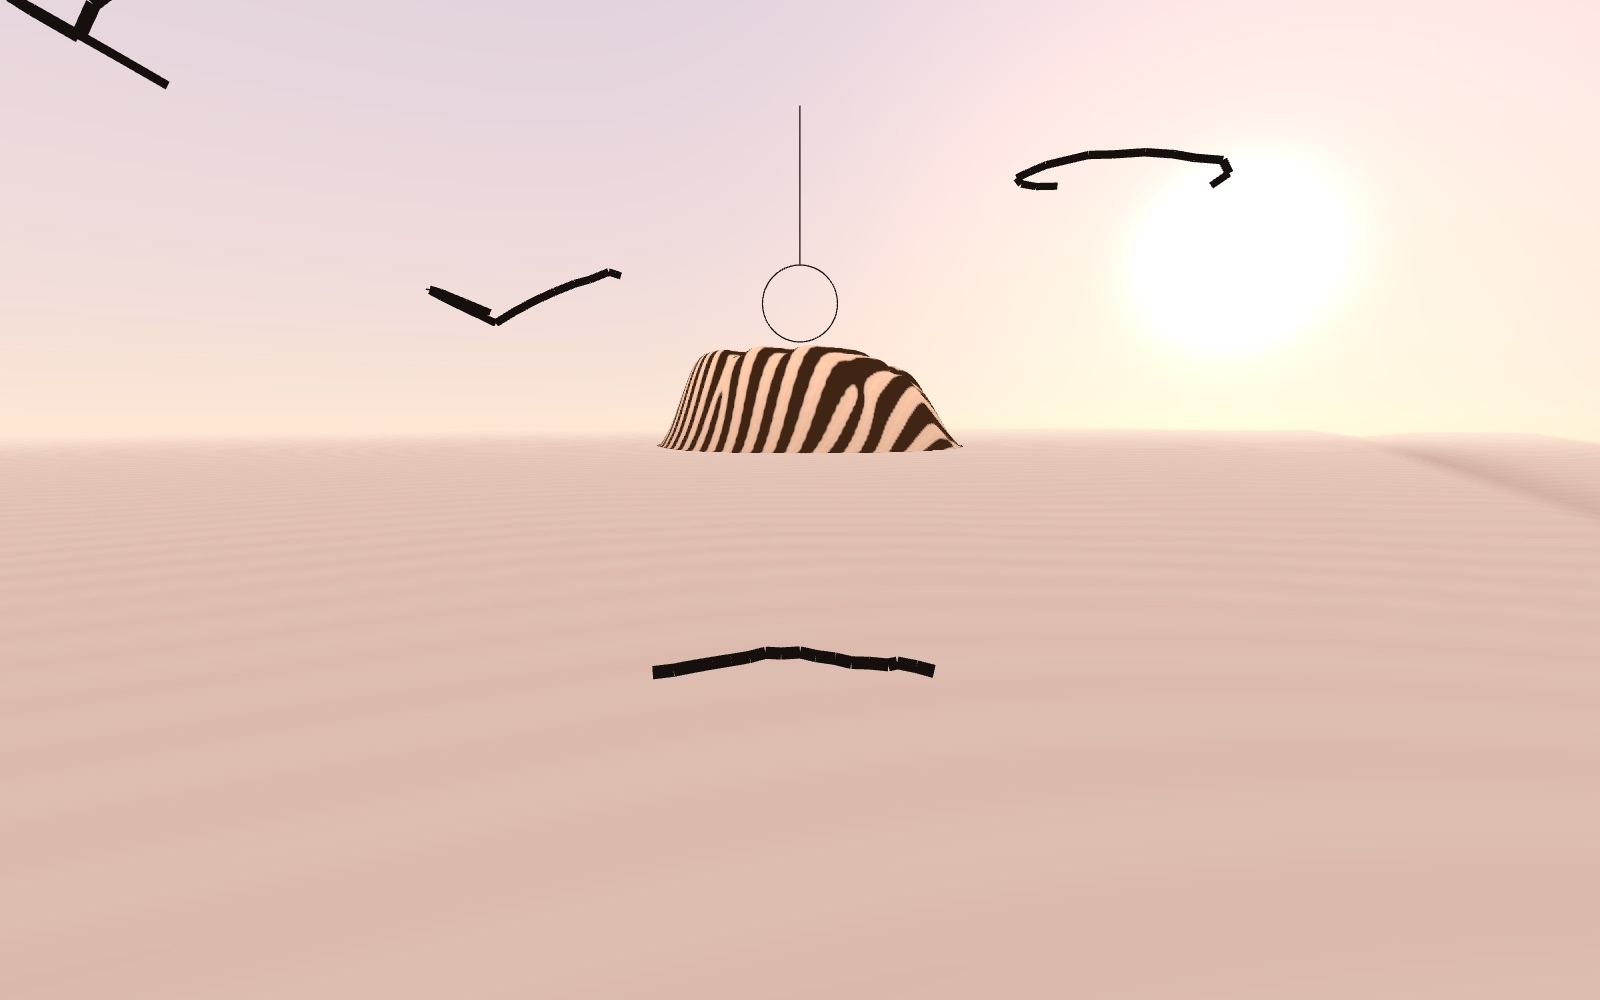
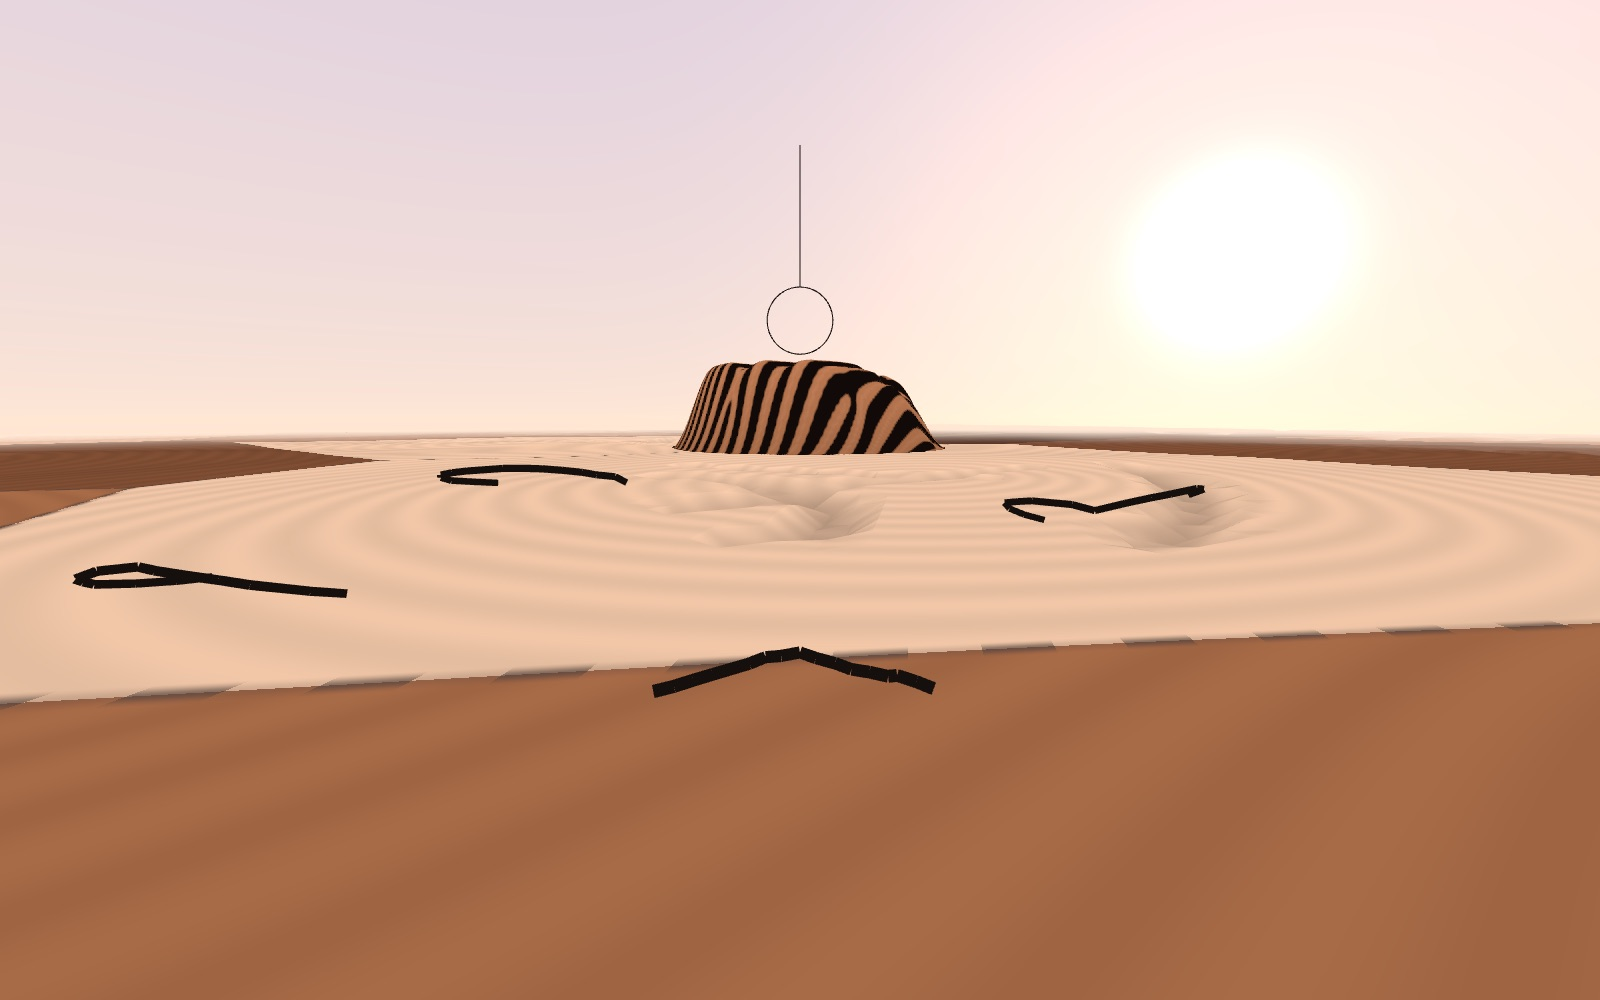
feat: skin country, a stitched patchwork of palms between the lands
Every patch is a palm in one of six skin tones, its heart, head, life and
fate lines cut in as canyons under fine dermal ripples, the patches joined
by dashed ink seams. Canyons are cut per vertex, seams and tones found per
pixel. Other players' lands now come in their own skin tones too.

diff --git a/src/desert.js b/src/desert.js
@@ -1,0 +1,94 @@
+import * as THREE from 'three';
+
+// Skin country: the desert between the prints is a patchwork of palms, stitched at the seams. Each
+// patch is a palm with its own skin tone and its own heart, head and life lines cut in as canyons,
+// under fine dermal ripples. Canyons are cut per vertex (a 220 x 220 grid); the seams and tones are
+// found per pixel so the patches meet in clean stitched lines.
+// The patchwork itself, shared by both shaders: which palm a point belongs to, where it sits in
+// that palm (fingers towards +y, about two units across), its tone, and how close the seam is.
+const PALM = /* glsl */ `
+  float hash(vec2 p) { return fract(sin(dot(p, vec2(127.1, 311.7))) * 43758.5453); }
+  vec2 hash2(vec2 p) { return vec2(hash(p), hash(p + 17.3)); }
+  void palm(vec2 p, out vec2 q, out vec2 id, out float seam) {
+    vec2 cell = floor(p / 1.1), best = vec2(0.0);
+    float d1 = 9.0, d2 = 9.0;
+    for (int j = -1; j <= 1; j++) for (int i = -1; i <= 1; i++) {
+      vec2 c = cell + vec2(i, j);
+      vec2 at = (c + 0.2 + 0.6 * hash2(c)) * 1.1;
+      float d = distance(p, at);
+      if (d < d1) { d2 = d1; d1 = d; best = at; id = c; } else if (d < d2) d2 = d;
+    }
+    seam = d2 - d1;
+    float a = hash(id + 9.1) * 6.2832;
+    q = mat2(cos(a), sin(a), -sin(a), cos(a)) * (p - best) / 0.5;
+  }`;
+
+// distance to a crease line y = f(x) over an x range, soft at its ends
+const VERT = /* glsl */ `
+  ${PALM}
+  varying vec2 vP;
+  varying float vCanyon, vH;
+  float line(vec2 q, float y, float x0, float x1) {
+    float fade = smoothstep(x0, x0 + 0.15, q.x) * (1.0 - smoothstep(x1 - 0.15, x1, q.x));
+    return mix(1.0, abs(q.y - y), fade);
+  }
+  void main() {
+    vec2 p = position.xz, q, id;
+    float seam;
+    vP = p;
+    palm(p, q, id, seam);
+    float r1 = hash(id + 1.3), r2 = hash(id + 2.9), r3 = hash(id + 5.1);
+    float heart = line(q, 0.38 + 0.12 * sin(q.x * 2.2 + r1 * 3.0) - 0.1 * q.x, -0.75, 0.75);
+    float head = line(q, 0.05 + (0.15 + 0.2 * r2) * q.x + 0.07 * sin(q.x * 3.0 + r2 * 5.0), -0.8, 0.55);
+    vec2 thumb = vec2(-0.75, -0.45);
+    float life = abs(length(q - thumb) - (0.55 + 0.15 * r3)) + (q.x < thumb.x - 0.05 || q.y < thumb.y - 0.1 ? 1.0 : 0.0);
+    float fate = line(q.yx, 0.08 * r1 - 0.03 * q.y, -0.8, 0.3);
+    float crease = min(min(heart, head), min(life, fate * 1.6));
+    vCanyon = smoothstep(0.07, 0.0, crease) * smoothstep(0.0, 0.12, seam);
+    float dune = 0.5 + 0.5 * sin(p.x * 9.0 + sin(p.y * 5.0) * 2.0) * sin(p.y * 7.0 + 1.3);
+    float h = -0.003 - dune * 0.003 - vCanyon * 0.02;
+    vH = h;
+    gl_Position = projectionMatrix * modelViewMatrix * vec4(position + vec3(0.0, h, 0.0), 1.0);
+  }`;
+
+const FRAG = /* glsl */ `
+  ${PALM}
+  uniform float uFade;
+  uniform vec3 uTones[6];
+  varying vec2 vP;
+  varying float vCanyon, vH;
+  void main() {
+    vec2 q, id;
+    float seam;
+    palm(vP, q, id, seam);
+    int k = int(floor(hash(id + 3.7) * 5.999));
+    vec3 skin = uTones[0];
+    for (int i = 1; i < 6; i++) if (i == k) skin = uTones[i];
+    // fine dermal ridges flowing round the palm, like a fingerprint at a larger scale
+    float ripple = 0.5 + 0.5 * sin(length(q * vec2(1.0, 1.35)) * 70.0 + sin(q.x * 4.0) * 2.0);
+    vec3 col = skin * (0.88 + 0.12 * ripple);
+    col *= 1.0 - clamp((dFdx(vH) - dFdy(vH)) * 120.0, -0.15, 0.2); // slopes lit from the far left
+    col = mix(col, skin * 0.42, vCanyon * 0.85);                     // the crease canyons
+    // stitched seams between palms: a dashed ink line
+    float edge = 1.0 - smoothstep(0.0, 0.012, seam);
+    float stitch = step(0.5, fract((vP.x + vP.y) * 18.0));
+    col = mix(col, vec3(0.09, 0.06, 0.05), edge * (0.3 + 0.5 * stitch));
+    float far = smoothstep(1.8, 3.4, length(vP));
+    col = mix(col, vec3(1.0, 0.8, 0.66), far);
+    gl_FragColor = vec4(col, uFade);
+    #include <colorspace_fragment>
+  }`;
+
+// From light to deep: every palm in the patchwork is someone's.
+export const SKIN = ['#f1c7a8', '#e2a885', '#c98b64', '#a86b47', '#7f4e33', '#5a3524'];
+
+export function createDesert() {
+  const uniforms = { uFade: { value: 0 }, uTones: { value: SKIN.map((c) => new THREE.Color(c)) } };
+  const mesh = new THREE.Mesh(
+    new THREE.PlaneGeometry(7, 7, 220, 220).rotateX(-Math.PI / 2),
+    new THREE.ShaderMaterial({ uniforms, transparent: true, vertexShader: VERT, fragmentShader: FRAG }),
+  );
+  mesh.renderOrder = -5;
+  mesh.frustumCulled = false;
+  return { mesh, uniforms };
+}

diff --git a/src/flight.js b/src/flight.js
@@ -1,4 +1,5 @@
 import * as THREE from 'three';
+import { createDesert } from './desert.js';
 
 // Flying. Nothing in the world gets bigger: YOU shrink. The rig that holds the camera and your
 // hands scales down about 40 times, so the 60 cm land on your table becomes a 24 m country, your
@@ -22,38 +23,6 @@ const SKY_FRAG = /* glsl */ `
     #include <colorspace_fragment>
   }`;
 
-// The palm desert between prints: flesh dunes rippled like skin, cut by three crease canyons.
-const DESERT_VERT = /* glsl */ `
-  varying vec2 vP;
-  varying float vDepth;
-  float crease(vec2 p) {
-    float a = abs(p.y + 0.9 - 0.25 * sin(p.x * 1.3));            // heart line
-    float b = abs(p.y + 0.2 - 0.18 * sin(p.x * 0.9 + 1.0) + 0.1 * p.x); // head line
-    float c = abs(length(p - vec2(-1.6, 0.6)) - 1.1);             // life line, round the thumb
-    return min(a, min(b, c));
-  }
-  void main() {
-    vP = position.xz;
-    float dune = 0.5 + 0.5 * sin(vP.x * 9.0 + sin(vP.y * 5.0) * 2.0) * sin(vP.y * 7.0 + 1.3);
-    float canyon = smoothstep(0.12, 0.0, crease(vP));
-    vDepth = canyon;
-    vec3 p = position + vec3(0.0, -0.003 - dune * 0.004 - canyon * 0.02, 0.0);
-    gl_Position = projectionMatrix * modelViewMatrix * vec4(p, 1.0);
-  }`;
-const DESERT_FRAG = /* glsl */ `
-  uniform float uFade;
-  varying vec2 vP;
-  varying float vDepth;
-  void main() {
-    float ripple = 0.5 + 0.5 * sin(length(vP * vec2(1.0, 1.3)) * 140.0 + sin(vP.x * 11.0) * 3.0);
-    vec3 col = mix(vec3(0.93, 0.72, 0.6), vec3(0.85, 0.6, 0.5), ripple * 0.35);
-    col = mix(col, vec3(0.45, 0.24, 0.22), vDepth * 0.8);
-    float far = smoothstep(1.6, 3.2, length(vP));
-    col = mix(col, vec3(1.0, 0.8, 0.66), far);
-    gl_FragColor = vec4(col, uFade);
-    #include <colorspace_fragment>
-  }`;
-
 export function createFlight({ rig, worldRoot }) {
   const skyU = { uFade: { value: 0 } };
   const sky = new THREE.Mesh(
@@ -68,12 +37,7 @@ export function createFlight({ rig, worldRoot }) {
   sky.visible = false;
   rig.add(sky);
 
-  const deserU = { uFade: { value: 0 } };
-  const desert = new THREE.Mesh(
-    new THREE.CircleGeometry(3.2, 160).rotateX(-Math.PI / 2),
-    new THREE.ShaderMaterial({ uniforms: deserU, transparent: true, vertexShader: DESERT_VERT, fragmentShader: DESERT_FRAG }),
-  );
-  desert.renderOrder = -5;
+  const { mesh: desert, uniforms: deserU } = createDesert();
   desert.visible = false;
   worldRoot.add(desert);
 

diff --git a/src/atlas.js b/src/atlas.js
@@ -5,14 +5,14 @@
 // ponytail: a bundled atlas until the shared one (Cloudflare Worker + D1) exists; the journey
 // must never depend on the network anyway, so this stays as the fallback.
 export const BUNDLED = [
-  { id: 'b1', cls: 'double', seed: 4211, ink: '#2b1d52' },
-  { id: 'b2', cls: 'whorl', seed: 907, ink: '#4a1a14' },
-  { id: 'b3', cls: 'tented', seed: 3310, ink: '#10323a' },
-  { id: 'b4', cls: 'pocket', seed: 77, ink: '#3b2a10' },
-  { id: 'b5', cls: 'arch', seed: 5120, ink: '#1f3a1a' },
-  { id: 'b6', cls: 'loop', seed: 2718, ink: '#3a1030' },
-  { id: 'b7', cls: 'whorl', seed: 6161, ink: '#1c2a4a' },
-  { id: 'b8', cls: 'loop', seed: 8088, ink: '#402414' },
+  { id: 'b1', cls: 'double', seed: 4211, ink: '#2b1d52', tone: 1 },
+  { id: 'b2', cls: 'whorl', seed: 907, ink: '#160d0a', tone: 4 },
+  { id: 'b3', cls: 'tented', seed: 3310, ink: '#10323a', tone: 0 },
+  { id: 'b4', cls: 'pocket', seed: 77, ink: '#3b2a10', tone: 2 },
+  { id: 'b5', cls: 'arch', seed: 5120, ink: '#1f3a1a', tone: 1 },
+  { id: 'b6', cls: 'loop', seed: 2718, ink: '#3a1030', tone: 3 },
+  { id: 'b7', cls: 'whorl', seed: 6161, ink: '#1c2a4a', tone: 0 },
+  { id: 'b8', cls: 'loop', seed: 8088, ink: '#120a08', tone: 3 },
 ];
 
 // Where neighbouring lands lie around a land (world metres at table scale): far enough to feel

diff --git a/src/main.js b/src/main.js
@@ -9,6 +9,7 @@ import { createFlock, wingShape } from './birds.js';
 import { createCity } from './city.js';
 import { createChooser, PLATES } from './chooser.js';
 import { createFlight, SHRINK } from './flight.js';
+import { SKIN } from './desert.js';
 import { createHandGuide } from './guide.js';
 import { createPanel } from './panel.js';
 import { createInk } from './ink.js';
@@ -302,7 +303,7 @@ function beginGrowth(px, py, cls, seed, speed = 0.16) {
 
 function growNeighbours() {
   neighbours({ cls: home.cls, seed: home.seed }).forEach((l, k) => {
-    const t = createTerrain({ size: 192, ink: l.ink });
+    const t = createTerrain({ size: 192, ink: l.ink, sand: SKIN[l.tone ?? 1] }); // every land is someone's skin
     t.mesh.position.set(SPOTS[k][0], 0, SPOTS[k][1]);
     t.mesh.visible = false;
     worldRoot.add(t.mesh);

diff --git a/README.md b/README.md
@@ -38,7 +38,8 @@ ridge, the way real fingerprints form before birth.
   went today.
 - **Fly.** Lift your hand off the land, palm down, fingers spread. Your hand becomes a wire bird
   (drawn from the ridge at your own print's delta), you shrink to bird size, the room gives way to a
-  warm sky, and you glide over the skin-coloured desert with your flock, steering by tilting your hand.
+  warm sky, and you glide with your flock over skin country: a patchwork of palms in every skin tone,
+  stitched together, their heart, head and life lines cut in as canyons. You steer by tilting your hand.
 - **Visit other people.** Another player's land rises on the horizon in a different ink. Fly through the
   hoop above its summit and you land there: their land now lies on your table, and one of their
   birds joins your flock.
@@ -119,7 +120,8 @@ Fingerprints are biometric data, so the game is built so it never needs yours:
 | Gestures | Palm frame, palm-down take-off, touch hysteresis, palm tilt, shadow bird | [src/gesture.js](src/gesture.js) |
 | Walking | Path following that never crosses a ridge, autopilot routes | [src/walk.js](src/walk.js) |
 | Wire birds | Ridges as wings, flocking, ink ribbons in one draw call | [src/birds.js](src/birds.js), [src/ink.js](src/ink.js) |
-| Flight | Shrinks you, not the world; sky and skin desert | [src/flight.js](src/flight.js) |
+| Flight | Shrinks you, not the world; the sky | [src/flight.js](src/flight.js) |
+| Skin country | A stitched patchwork of palms in six skin tones, with crease canyons and dermal ripples | [src/desert.js](src/desert.js) |
 | Table finding | Detected table planes, then your flat hand, otherwise a sensible default | [src/room.js](src/room.js), [src/main.js](src/main.js) |
 | Sound | Generated with Web Audio: sand, wind, pentatonic terraces, bird songs | [src/audio.js](src/audio.js) |
 | City | Ink houses along the walked paths, a tower at the summit, kept per land | [src/city.js](src/city.js) |
@@ -186,4 +188,4 @@ node --test tests/*.test.mjs
   atlas as the fallback
 - An optional phone page that reads your real fingertip's class, core, delta and ridge count, deletes
   the photo, and sends only those few numbers
-- Your palm as the desert: its three big creases as canyons between your five fingertip lands
+- Your own palm in the patchwork, with your five fingertip lands at its fingertips
